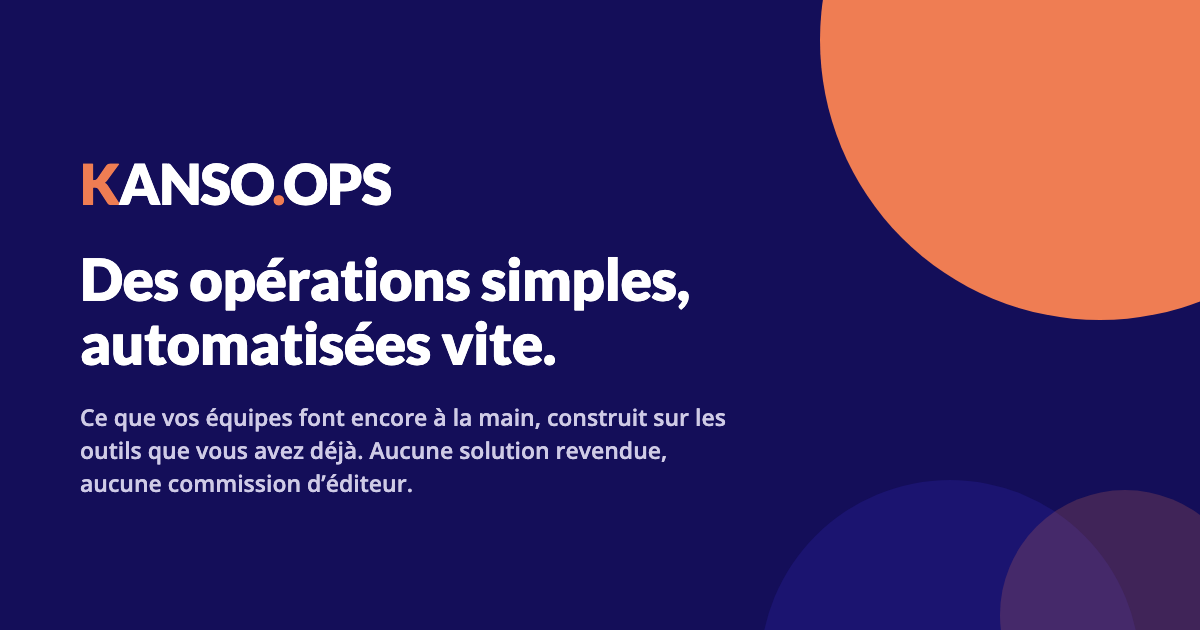
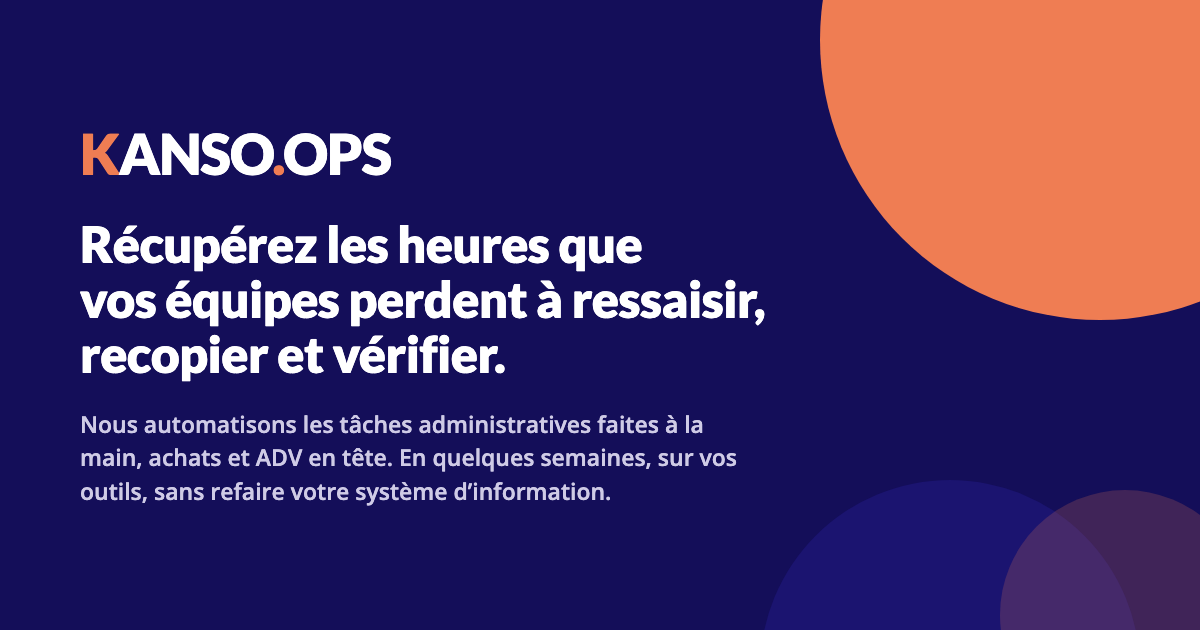
Site : l accroche vend le benefice, trois portes, et le nous
L accueil ouvre sur « Recuperez les heures que vos equipes perdent a
ressaisir, recopier et verifier », puis explique le comment. Une section
presente les trois facons de travailler ensemble : automatisation des
process administratifs (achats et ADV en tete), diagnostic des depenses
achats, aide a l achat d une solution.

Toutes les pages passent de je a nous ; Kanso-Ops est dirige par
Sebastien Duc. Image de partage, titre, donnees structurees et llms.txt
alignes.

Changed region(s): [[0.0617, 0.3619, 0.6475, 0.6032], [0.0617, 0.6333, 0.6167, 0.8143], [0.0617, 0.2111, 0.3392, 0.3317]]

diff --git a/index.html b/index.html
@@ -3,10 +3,10 @@
 <head>
 <meta charset="utf-8">
 <meta name="viewport" content="width=device-width, initial-scale=1">
-<title>Kanso-Ops · Des opérations simples, automatisées vite, pour TPE et PME</title>
-<meta name="description" content="Kanso-Ops, c’est Sébastien Duc. Je ne refais pas votre système d’information : je regarde ce que vos équipes font encore à la main, je retiens ce qui s’automatise en quelques semaines, et je le construis sur les outils que vous avez déjà.">
-<meta property="og:title" content="Kanso-Ops · Des opérations simples, automatisées vite, pour TPE et PME">
-<meta property="og:description" content="Kanso-Ops, c’est Sébastien Duc. Je ne refais pas votre système d’information : je regarde ce que vos équipes font encore à la main, je retiens ce qui s’automatise en quelques semaines, et je le construis sur les outils que vous avez déjà.">
+<title>Kanso-Ops · Récupérez les heures perdues à ressaisir · Automatisation pour TPE et PME</title>
+<meta name="description" content="Kanso-Ops automatise les tâches administratives que vos équipes font encore à la main, achats et ADV en tête : commandes reçues par mail, fichiers recopiés, contrôles oubliés. En quelques semaines, sur vos outils, sans refaire votre système d’information.">
+<meta property="og:title" content="Kanso-Ops · Récupérez les heures perdues à ressaisir · Automatisation pour TPE et PME">
+<meta property="og:description" content="Kanso-Ops automatise les tâches administratives que vos équipes font encore à la main, achats et ADV en tête : commandes reçues par mail, fichiers recopiés, contrôles oubliés. En quelques semaines, sur vos outils, sans refaire votre système d’information.">
 <meta property="og:locale" content="fr_FR">
 <meta name="theme-color" content="#140E59">
 <link rel="canonical" href="https://kanso-ops.com/">
@@ -20,8 +20,8 @@
 <meta property="og:image:width" content="1200">
 <meta property="og:image:height" content="630">
 <meta name="twitter:card" content="summary_large_image">
-<meta name="twitter:title" content="Kanso-Ops · Des opérations simples, automatisées vite, pour TPE et PME">
-<meta name="twitter:description" content="Kanso-Ops, c’est Sébastien Duc. Je ne refais pas votre système d’information : je regarde ce que vos équipes font encore à la main, je retiens ce qui s’automatise en quelques semaines, et je le construis sur les outils que vous avez déjà.">
+<meta name="twitter:title" content="Kanso-Ops · Récupérez les heures perdues à ressaisir · Automatisation pour TPE et PME">
+<meta name="twitter:description" content="Kanso-Ops automatise les tâches administratives que vos équipes font encore à la main, achats et ADV en tête : commandes reçues par mail, fichiers recopiés, contrôles oubliés. En quelques semaines, sur vos outils, sans refaire votre système d’information.">
 <meta name="twitter:image" content="https://kanso-ops.com/images/og-kanso-2026.png">
 <script type="application/ld+json">
 {
@@ -31,11 +31,11 @@
    "@type": "ProfessionalService",
    "@id": "https://kanso-ops.com/#org",
    "name": "Kanso-Ops",
-   "slogan": "Des opérations simples, automatisées vite",
+   "slogan": "Récupérez les heures que vos équipes perdent à ressaisir, recopier et vérifier",
    "url": "https://kanso-ops.com/",
    "email": "sebastien.duc@kanso-ops.fr",
    "telephone": "+33674859078",
-   "description": "Kanso-Ops, c’est Sébastien Duc. Je ne refais pas votre système d’information : je regarde ce que vos équipes font encore à la main, je retiens ce qui s’automatise en quelques semaines, et je le construis sur les outils que vous avez déjà.",
+   "description": "Kanso-Ops automatise les tâches administratives que vos équipes font encore à la main, achats et ADV en tête : commandes reçues par mail, fichiers recopiés, contrôles oubliés. En quelques semaines, sur vos outils, sans refaire votre système d’information.",
    "address": {
     "@type": "PostalAddress",
     "streetAddress": "6 rue d'Armaillé",
@@ -50,7 +50,7 @@
    "founder": {
     "@type": "Person",
     "name": "Sébastien Duc",
-    "jobTitle": "Concepteur d’automatisations pour TPE et PME",
+    "jobTitle": "Dirigeant",
     "description": "Acheteur pendant dix ans en PME et en groupe, consultant achats et e-procurement chez KPMG, business process owner d’un déploiement ERP sur 22 processus, et constructeur de sa propre plateforme d’automatisation.",
     "alumniOf": {
      "@type": "Organization",
@@ -81,6 +81,42 @@
    }
   },
   {
+   "@type": "OfferCatalog",
+   "name": "Trois façons de travailler ensemble",
+   "itemListElement": [
+    {
+     "@type": "Offer",
+     "itemOffered": {
+      "@type": "Service",
+      "name": "Automatisation des process administratifs, achats et ADV en tête",
+      "provider": {
+       "@id": "https://kanso-ops.com/#org"
+      }
+     }
+    },
+    {
+     "@type": "Offer",
+     "itemOffered": {
+      "@type": "Service",
+      "name": "Diagnostic des dépenses achats",
+      "provider": {
+       "@id": "https://kanso-ops.com/#org"
+      }
+     }
+    },
+    {
+     "@type": "Offer",
+     "itemOffered": {
+      "@type": "Service",
+      "name": "Aide à l’achat d’une solution : cahier des charges, comparaison des offres, négociation",
+      "provider": {
+       "@id": "https://kanso-ops.com/#org"
+      }
+     }
+    }
+   ]
+  },
+  {
    "@type": "FAQPage",
    "mainEntity": [
     {
@@ -88,7 +124,7 @@
      "name": "Combien ça coûte ?",
      "acceptedAnswer": {
       "@type": "Answer",
-      "text": "Chaque chantier se chiffre en jours, par lot, avant de commencer, et le prix ne bouge plus. Pas de commission d’éditeur : si un outil du marché entre dans la solution, vous le payez directement, au prix public. Et si vous voulez que je garde l’outil en marche une fois livré, c’est un forfait mensuel, dit à l’avance."
+      "text": "Chaque chantier se chiffre en jours, par lot, avant de commencer, et le prix ne bouge plus. Pas de commission d’éditeur : si un outil du marché entre dans la solution, vous le payez directement, au prix public. Et si vous voulez que nous gardions l’outil en marche une fois livré, c’est un forfait mensuel, dit à l’avance."
      }
     },
     {
@@ -112,7 +148,7 @@
      "name": "Et si vous n’êtes plus là ?",
      "acceptedAnswer": {
       "@type": "Answer",
-      "text": "Le code, la documentation et les règles de gestion vous sont remis à la livraison. Un autre que moi doit pouvoir reprendre l’outil ; c’est une condition de livraison, pas une option."
+      "text": "Le code, la documentation et les règles de gestion vous sont remis à la livraison. Un autre que nous doit pouvoir reprendre l’outil ; c’est une condition de livraison, pas une option."
      }
     },
     {
@@ -120,7 +156,7 @@
      "name": "Et si ce n’est pas automatisable ?",
      "acceptedAnswer": {
       "@type": "Answer",
-      "text": "Vous l’entendrez pendant les trente premières minutes, pas dans un devis. Quand un produit du marché fait l’affaire, je vous le dis ; quand le temps que vous y passez ne justifie pas le travail, je vous le dis aussi."
+      "text": "Vous l’entendrez pendant les trente premières minutes, pas dans un devis. Quand un produit du marché fait l’affaire, nous vous le disons ; quand le temps que vous y passez ne justifie pas le travail, nous vous le disons aussi."
      }
     },
     {
@@ -128,7 +164,7 @@
      "name": "Où intervenez-vous ?",
      "acceptedAnswer": {
       "@type": "Answer",
-      "text": "Partout en France, et presque tout se fait à distance : les échanges en visio, la construction chez moi, la mise en service chez vous avec votre informatique. Basé à Nîmes."
+      "text": "Partout en France, et presque tout se fait à distance : les échanges en visio, la construction chez nous, la mise en service chez vous avec votre informatique. Basé à Nîmes."
      }
     }
    ]
@@ -335,18 +371,18 @@ p,li{overflow-wrap:break-word}
     <li><a href="/cas-usage/">Cas d’usage</a></li>
     <li><a href="#comment">Comment ça se passe</a></li>
     <li><a href="#qui">Qui</a></li>
-    <li><a class="cta" href="#contact">Me contacter</a></li>
+    <li><a class="cta" href="#contact">Nous contacter</a></li>
   </ul>
 </div></nav>
 
 <header class="hero" id="top">
   <div class="bubs"><div class="bub b1"></div><div class="bub b2"></div><div class="bub b3"></div></div>
   <div class="wrap">
-    <div class="kick rev">Kanso-Ops · Sébastien Duc</div>
-    <h1 class="rev">Des opérations simples, automatisées vite.</h1>
-    <p class="sub rev">Je ne refais pas votre système d’information. Je regarde ce que vos équipes font encore à la main, je retiens ce qui s’automatise en quelques semaines, et je le construis, branché sur les outils que vous avez déjà. <b>Aucune solution revendue, aucune commission d’éditeur.</b></p>
+    <div class="kick rev">Kanso-Ops · Automatisation des opérations</div>
+    <h1 class="rev">Récupérez les heures que vos équipes perdent à ressaisir, recopier et vérifier.</h1>
+    <p class="sub rev">Nous automatisons les tâches administratives qu’elles font encore à la main, achats et administration des ventes en tête : une commande reçue par mail, un fichier recopié chaque semaine, un contrôle oublié. En quelques semaines, sur les outils que vous avez déjà, <b>sans refaire votre système d’information</b>.</p>
     <div class="acts rev">
-      <a class="btn p" href="#contact">Me décrire une tâche</a>
+      <a class="btn p" href="#contact">Nous décrire une tâche</a>
       <a class="btn s" href="#quoi">Voir ce qu’on automatise</a>
     </div>
   </div>
@@ -356,7 +392,7 @@ p,li{overflow-wrap:break-word}
   <div class="wrap">
     <div class="kick rev">Ce qu’on automatise</div>
     <h2 class="rev">Les dix petites choses qu’on fait à la main, et dont on ne parle plus</h2>
-    <p class="lead rev">Entre acheter un logiciel et lancer un projet, il y a un vide. Votre besoin est trop particulier et trop petit pour un éditeur, et aucun intégrateur ne se déplace pour quelques jours de travail. Alors on continue à la main. C’est exactement là que je travaille.</p>
+    <p class="lead rev">Entre acheter un logiciel et lancer un projet, il y a un vide. Votre besoin est trop particulier et trop petit pour un éditeur, et aucun intégrateur ne se déplace pour quelques jours de travail. Alors on continue à la main. C’est exactement là que nous travaillons.</p>
     <div class="etapes rev">
       <div class="etape"><div class="no">COURRIELS</div><h3>Une commande qui arrive par mail</h3><p>Le bon de commande en pièce jointe est lu, contrôlé, et déposé dans votre logiciel de gestion. Quelqu’un valide les cas douteux, personne ne ressaisit.</p></div>
       <div class="etape"><div class="no">FICHIERS</div><h3>Un relevé recopié chaque semaine</h3><p>Deux exports, un tableau, une heure de copier-coller le lundi. Le tableau se construit seul, aux mêmes règles, et signale ce qui ne colle pas.</p></div>
@@ -367,14 +403,26 @@ p,li{overflow-wrap:break-word}
   </div>
 </section>
 
-<section id="comment">
+<section id="offres">
+  <div class="wrap">
+    <div class="kick rev">Trois façons de travailler ensemble</div>
+    <h2 class="rev">L’automatisation d’abord. Et deux autres portes, quand c’est ce qu’il vous faut.</h2>
+    <div class="etapes rev" style="grid-template-columns:1.5fr 1fr 1fr">
+      <div class="etape"><div class="no">01</div><h3>Automatisation des process administratifs</h3><p>Achats et administration des ventes en tête : une commande reçue par mail, un rapprochement de factures, un relevé recopié. Nous construisons l’outil court qui le fait, en quelques semaines, sur vos outils. C’est l’essentiel de notre travail.</p></div>
+      <div class="etape"><div class="no">02</div><h3>Diagnostic des dépenses achats</h3><p>Quand on ne sait pas par où commencer, nous regardons où part l’argent : fournisseur par fournisseur, depuis vos exports comptables. Vous repartez avec les trois chantiers qui valent le coup.</p></div>
+      <div class="etape"><div class="no">03</div><h3>Aide à l’achat d’une solution</h3><p>Quand le besoin dépasse un outil court et demande un éditeur ou un intégrateur : cahier des charges, comparaison des offres, négociation. Dix ans d’achats, c’est à ça que ça sert.</p></div>
+    </div>
+  </div>
+</section>
+
+<section id="comment" class="light">
   <div class="wrap">
     <div class="kick rev">Comment ça se passe</div>
     <h2 class="rev">Trente minutes, un lot chiffré, quelques semaines</h2>
     <div class="etapes rev" style="grid-template-columns:repeat(3,1fr)">
       <div class="etape"><div class="no">01</div><h3>Vous décrivez la tâche</h3><p>Trente minutes en visio. Qui la fait, combien de fois, avec quels outils. Si ça ne s’automatise pas, ou si un produit du marché le fait déjà, vous l’entendez tout de suite.</p></div>
-      <div class="etape"><div class="no">02</div><h3>Je chiffre un lot, et le prix ne bouge plus</h3><p>Un périmètre écrit, un nombre de jours, une date. Payé par tiers : au départ, à la première version chez vous, à la recette.</p></div>
-      <div class="etape"><div class="no">03</div><h3>Je construis, vous validez, c’est à vous</h3><p>Une version à tester toutes les deux semaines, la mise en service avec votre informatique, et à la fin le code, la documentation et les règles vous sont remis.</p></div>
+      <div class="etape"><div class="no">02</div><h3>Nous chiffrons un lot, et le prix ne bouge plus</h3><p>Un périmètre écrit, un nombre de jours, une date. Payé par tiers : au départ, à la première version chez vous, à la recette.</p></div>
+      <div class="etape"><div class="no">03</div><h3>Nous construisons, vous validez, c’est à vous</h3><p>Une version à tester toutes les deux semaines, la mise en service avec votre informatique, et à la fin le code, la documentation et les règles vous sont remis.</p></div>
     </div>
     <div class="acts rev" style="margin-top:34px">
       <a class="btn p" id="rdv" href="https://calendly.com/sebastien-duc-kanso-ops/30min" target="_blank" rel="noopener">Réserver trente minutes</a>
@@ -384,44 +432,44 @@ p,li{overflow-wrap:break-word}
   </div>
 </section>
 
-<section id="pas" class="light">
+<section id="pas">
   <div class="wrap">
-    <div class="kick rev">Ce que je ne fais pas</div>
+    <div class="kick rev">Ce que nous ne faisons pas</div>
     <h2 class="rev">On ne révolutionne pas votre plateforme. On prend les gains rapides, et on les prend vite.</h2>
-    <p class="lead rev">Pas de refonte du système d’information, pas de programme de transformation, pas de solution à revendre. Quand le travail demande un éditeur ou un intégrateur, je vous le dis et je vous aide à bien l’acheter : dix ans d’achats, ça sert aussi à ça.</p>
-    <p class="lead rev">Et quand le temps que vous y passez ne justifie pas l’investissement, je vous le dis aussi. Un prestataire ne vous dira jamais qu’il ne faut rien construire. Moi, si.</p>
+    <p class="lead rev">Pas de refonte du système d’information, pas de programme de transformation, pas de solution à revendre. Quand le travail demande un éditeur ou un intégrateur, nous vous le disons et nous vous aidons à bien l’acheter : dix ans d’achats, ça sert aussi à ça.</p>
+    <p class="lead rev">Et quand le temps que vous y passez ne justifie pas l’investissement, nous vous le disons aussi. Un prestataire ne vous dira jamais qu’il ne faut rien construire. Nous, si.</p>
   </div>
 </section>
 
-<section id="qui">
+<section id="qui" class="light">
   <div class="wrap">
-    <div class="kick rev">Qui je suis</div>
-    <h2 class="rev">Kanso-Ops, c’est Sébastien Duc</h2>
-    <p class="lead rev">Dix ans d’achats et d’opérations, en PME et en groupe. Consultant achats et e-procurement chez KPMG, puis responsable du passage à un nouvel ERP sur vingt-deux processus, de la règle de gestion à la conduite du changement. Et une année entière à construire ma propre plateforme d’automatisation : plus de cent flux en production, sur des données réelles.</p>
-    <p class="lead rev">Ce qui en reste, et que vous achetez : je parle la langue de vos équipes, qui décrivent un travail réel, et celle des développeurs, qui chiffrent une spécification. La plupart des dérapages naissent entre les deux, dans ce que personne n’a écrit parce que chacun pensait que l’autre l’avait compris.</p>
+    <div class="kick rev">Qui nous sommes</div>
+    <h2 class="rev">Kanso-Ops est dirigé par Sébastien Duc</h2>
+    <p class="lead rev">Dix ans d’achats et d’opérations, en PME et en groupe. Consultant achats et e-procurement chez KPMG, puis responsable du passage à un nouvel ERP sur vingt-deux processus, de la règle de gestion à la conduite du changement. Et une année entière à construire notre propre plateforme d’automatisation : plus de cent flux en production, sur des données réelles.</p>
+    <p class="lead rev">Ce qui en reste, et que vous achetez : nous parlons la langue de vos équipes, qui décrivent un travail réel, et celle des développeurs, qui chiffrent une spécification. La plupart des dérapages naissent entre les deux, dans ce que personne n’a écrit parce que chacun pensait que l’autre l’avait compris.</p>
     <p class="lead rev">Une structure indépendante, qui le reste par choix. Ni catalogue, ni partenaire éditeur, ni équipe à occuper derrière.</p>
   </div>
 </section>
 
-<section id="questions" class="light">
+<section id="questions">
   <div class="wrap">
     <div class="kick rev">Questions fréquentes</div>
-    <h2 class="rev">Ce qu’on me demande avant de commencer</h2>
+    <h2 class="rev">Ce qu’on nous demande avant de commencer</h2>
     <div class="faq">
-      <details class="qa rev"><summary>Combien ça coûte ?</summary><p>Chaque chantier se chiffre en jours, par lot, avant de commencer, et le prix ne bouge plus. Pas de commission d’éditeur : si un outil du marché entre dans la solution, vous le payez directement, au prix public. Et si vous voulez que je garde l’outil en marche une fois livré, c’est un forfait mensuel, dit à l’avance.</p></details>
+      <details class="qa rev"><summary>Combien ça coûte ?</summary><p>Chaque chantier se chiffre en jours, par lot, avant de commencer, et le prix ne bouge plus. Pas de commission d’éditeur : si un outil du marché entre dans la solution, vous le payez directement, au prix public. Et si vous voulez que nous gardions l’outil en marche une fois livré, c’est un forfait mensuel, dit à l’avance.</p></details>
       <details class="qa rev"><summary>Est-ce de l’intelligence artificielle ?</summary><p>La plupart du temps, non. Une commande qui arrive par courriel, un fichier à déposer, une cohérence à vérifier : ce sont des règles, et des règles se testent. L’IA n’entre que lorsqu’elle est le moyen le plus simple, jamais parce qu’elle est à la mode.</p></details>
       <details class="qa rev"><summary>Où tournent les outils ?</summary><p>Chez vous, sur vos machines et vos comptes, branchés sur ce que vous avez déjà. Aucune donnée ne part vers un service que vous n’avez pas choisi.</p></details>
-      <details class="qa rev"><summary>Et si vous n’êtes plus là ?</summary><p>Le code, la documentation et les règles de gestion vous sont remis à la livraison. Un autre que moi doit pouvoir reprendre l’outil ; c’est une condition de livraison, pas une option.</p></details>
-      <details class="qa rev"><summary>Et si ce n’est pas automatisable ?</summary><p>Vous l’entendrez pendant les trente premières minutes, pas dans un devis. Quand un produit du marché fait l’affaire, je vous le dis ; quand le temps que vous y passez ne justifie pas le travail, je vous le dis aussi.</p></details>
-      <details class="qa rev"><summary>Où intervenez-vous ?</summary><p>Partout en France, et presque tout se fait à distance : les échanges en visio, la construction chez moi, la mise en service chez vous avec votre informatique. Basé à Nîmes.</p></details>
+      <details class="qa rev"><summary>Et si vous n’êtes plus là ?</summary><p>Le code, la documentation et les règles de gestion vous sont remis à la livraison. Un autre que nous doit pouvoir reprendre l’outil ; c’est une condition de livraison, pas une option.</p></details>
+      <details class="qa rev"><summary>Et si ce n’est pas automatisable ?</summary><p>Vous l’entendrez pendant les trente premières minutes, pas dans un devis. Quand un produit du marché fait l’affaire, nous vous le disons ; quand le temps que vous y passez ne justifie pas le travail, nous vous le disons aussi.</p></details>
+      <details class="qa rev"><summary>Où intervenez-vous ?</summary><p>Partout en France, et presque tout se fait à distance : les échanges en visio, la construction chez nous, la mise en service chez vous avec votre informatique. Basé à Nîmes.</p></details>
     </div>
   </div>
 </section>
 
 <section id="contact" class="alt">
   <div class="wrap">
-    <div class="kick rev">Me contacter</div>
-    <h2 class="rev">Dites-moi quelle tâche vous prend le plus de temps</h2>
+    <div class="kick rev">Nous contacter</div>
+    <h2 class="rev">Dites-nous quelle tâche vous prend le plus de temps</h2>
     <p class="lead rev">C’est la seule question qui compte pour commencer. Une ligne suffit, la réponse arrive sous vingt-quatre heures. Et si ça ne s’automatise pas, vous l’entendrez aussi.</p>
     <div class="contact rev">
       <ul class="coord">
@@ -431,7 +479,7 @@ p,li{overflow-wrap:break-word}
         <li><span>Rendez-vous</span><a href="https://calendly.com/sebastien-duc-kanso-ops/30min" target="_blank" rel="noopener">Trente minutes en visio</a></li>
         <li><span>Zone</span>Partout en France, basé à Nîmes</li>
       </ul>
-      <div><a class="btn p" href="mailto:sebastien.duc@kanso-ops.fr?subject=Une%20t%C3%A2che%20%C3%A0%20automatiser">Écrire à Sébastien</a><p class="note" style="margin-top:14px;font-size:13px">Si votre messagerie ne s’ouvre pas, l’adresse se copie juste à côté.</p></div>
+      <div><a class="btn p" href="mailto:sebastien.duc@kanso-ops.fr?subject=Une%20t%C3%A2che%20%C3%A0%20automatiser">Nous écrire</a><p class="note" style="margin-top:14px;font-size:13px">Si votre messagerie ne s’ouvre pas, l’adresse se copie juste à côté.</p></div>
     </div>
   </div>
 </section>
@@ -457,7 +505,7 @@ p,li{overflow-wrap:break-word}
     <div class="cols">
       <div>
         <h4>Kanso-Ops</h4>
-        <p class="sig">Des opérations simples, automatisées vite, pour les TPE et PME. Branché sur vos outils, livré en quelques semaines, et à vous.<br>Partout en France, basé à Nîmes.</p>
+        <p class="sig">Nous automatisons les tâches administratives que vos équipes font encore à la main, achats et ADV en tête. En quelques semaines, sur vos outils, et c’est à vous.<br>Partout en France, basé à Nîmes.</p>
       </div>
       <div>
         <h4>Le site</h4>
@@ -465,12 +513,12 @@ p,li{overflow-wrap:break-word}
           <li><a href="/#quoi">Ce qu’on automatise</a></li>
           <li><a href="/cas-usage/">Cas d’usage par secteur</a></li>
           <li><a href="/#comment">Comment ça se passe</a></li>
-          <li><a href="/#qui">Qui je suis</a></li>
+          <li><a href="/#qui">Qui nous sommes</a></li>
           <li><a href="/#questions">Questions fréquentes</a></li>
         </ul>
       </div>
       <div>
-        <h4>Parler à Sébastien</h4>
+        <h4>Nous parler</h4>
         <ul>
           <li><a href="https://calendly.com/sebastien-duc-kanso-ops/30min" target="_blank" rel="noopener">Réserver trente minutes</a></li>
           <li><a href="mailto:sebastien.duc@kanso-ops.fr">sebastien.duc@kanso-ops.fr</a></li>

diff --git a/cas-usage/index.html b/cas-usage/index.html
@@ -326,7 +326,7 @@ p,li{overflow-wrap:break-word}
     <li><a href="/cas-usage/" class="ici">Cas d’usage</a></li>
     <li><a href="/#comment">Comment ça se passe</a></li>
     <li><a href="/#qui">Qui</a></li>
-    <li><a class="cta" href="/#contact">Me contacter</a></li>
+    <li><a class="cta" href="/#contact">Nous contacter</a></li>
   </ul>
 </div></nav>
 
@@ -403,7 +403,7 @@ p,li{overflow-wrap:break-word}
 <section class="alt">
   <div class="wrap">
     <div class="kick rev">Votre cas</div>
-    <h2 class="rev">Dites-moi quelle tâche vous prend le plus de temps</h2>
+    <h2 class="rev">Dites-nous quelle tâche vous prend le plus de temps</h2>
     <p class="lead rev">Votre secteur n’est peut-être pas dans la liste, et votre cas non plus. Trente minutes suffisent à savoir si ça s’automatise, en combien de temps, ou s’il vaut mieux ne rien faire.</p>
     <div class="acts rev">
       <a class="btn p" href="https://calendly.com/sebastien-duc-kanso-ops/30min" target="_blank" rel="noopener">Réserver trente minutes</a>
@@ -434,19 +434,19 @@ p,li{overflow-wrap:break-word}
     <div class="cols">
       <div>
         <h4>Kanso-Ops</h4>
-        <p class="sig">Des opérations simples, automatisées vite, pour les TPE et PME. Branché sur vos outils, livré en quelques semaines, et à vous.<br>Partout en France, basé à Nîmes.</p>
+        <p class="sig">Nous automatisons les tâches administratives que vos équipes font encore à la main, achats et ADV en tête. En quelques semaines, sur vos outils, et c’est à vous.<br>Partout en France, basé à Nîmes.</p>
       </div>
       <div>
         <h4>Le site</h4>
         <ul>
           <li><a href="/#quoi">Ce qu’on automatise</a></li>
           <li><a href="/#comment">Comment ça se passe</a></li>
-          <li><a href="/#qui">Qui je suis</a></li>
+          <li><a href="/#qui">Qui nous sommes</a></li>
           <li><a href="/#questions">Questions fréquentes</a></li>
         </ul>
       </div>
       <div>
-        <h4>Parler à Sébastien</h4>
+        <h4>Nous parler</h4>
         <ul>
           <li><a href="https://calendly.com/sebastien-duc-kanso-ops/30min" target="_blank" rel="noopener">Réserver trente minutes</a></li>
           <li><a href="mailto:sebastien.duc@kanso-ops.fr">sebastien.duc@kanso-ops.fr</a></li>

diff --git a/404.html b/404.html
@@ -309,7 +309,7 @@ p,li{overflow-wrap:break-word}
     <li><a href="/cas-usage/">Cas d’usage</a></li>
     <li><a href="/#comment">Comment ça se passe</a></li>
     <li><a href="/#qui">Qui</a></li>
-    <li><a class="cta" href="/#contact">Me contacter</a></li>
+    <li><a class="cta" href="/#contact">Nous contacter</a></li>
   </ul>
 </div></nav>
 
@@ -344,7 +344,7 @@ p,li{overflow-wrap:break-word}
     <div class="cols">
       <div>
         <h4>Kanso-Ops</h4>
-        <p class="sig">Des opérations simples, automatisées vite, pour les TPE et PME. Branché sur vos outils, livré en quelques semaines, et à vous.<br>Partout en France, basé à Nîmes.</p>
+        <p class="sig">Nous automatisons les tâches administratives que vos équipes font encore à la main, achats et ADV en tête. En quelques semaines, sur vos outils, et c’est à vous.<br>Partout en France, basé à Nîmes.</p>
       </div>
       <div>
         <h4>Le site</h4>
@@ -353,11 +353,11 @@ p,li{overflow-wrap:break-word}
           <li><a href="/#quoi">Ce qu’on automatise</a></li>
           <li><a href="/cas-usage/">Cas d’usage par secteur</a></li>
           <li><a href="/#comment">Comment ça se passe</a></li>
-          <li><a href="/#qui">Qui je suis</a></li>
+          <li><a href="/#qui">Qui nous sommes</a></li>
         </ul>
       </div>
       <div>
-        <h4>Parler à Sébastien</h4>
+        <h4>Nous parler</h4>
         <ul>
           <li><a href="https://calendly.com/sebastien-duc-kanso-ops/30min" target="_blank" rel="noopener">Réserver trente minutes</a></li>
           <li><a href="mailto:sebastien.duc@kanso-ops.fr">sebastien.duc@kanso-ops.fr</a></li>

diff --git a/conditions-utilisation/index.html b/conditions-utilisation/index.html
@@ -205,7 +205,7 @@
                 <li><a href="/#quoi">Ce qu’on automatise</a></li>
                 <li><a href="/cas-usage/">Cas d’usage</a></li>
                 <li><a href="/#comment">Comment ça se passe</a></li>
-                <li><a href="/#contact" class="nav-cta">Me contacter</a></li>
+                <li><a href="/#contact" class="nav-cta">Nous contacter</a></li>
             </ul>
             <button class="mobile-toggle" aria-label="Menu"><span></span><span></span><span></span></button>
         </div>

diff --git a/mentions-legales/index.html b/mentions-legales/index.html
@@ -205,7 +205,7 @@
                 <li><a href="/#quoi">Ce qu’on automatise</a></li>
                 <li><a href="/cas-usage/">Cas d’usage</a></li>
                 <li><a href="/#comment">Comment ça se passe</a></li>
-                <li><a href="/#contact" class="nav-cta">Me contacter</a></li>
+                <li><a href="/#contact" class="nav-cta">Nous contacter</a></li>
             </ul>
             <button class="mobile-toggle" aria-label="Menu"><span></span><span></span><span></span></button>
         </div>
